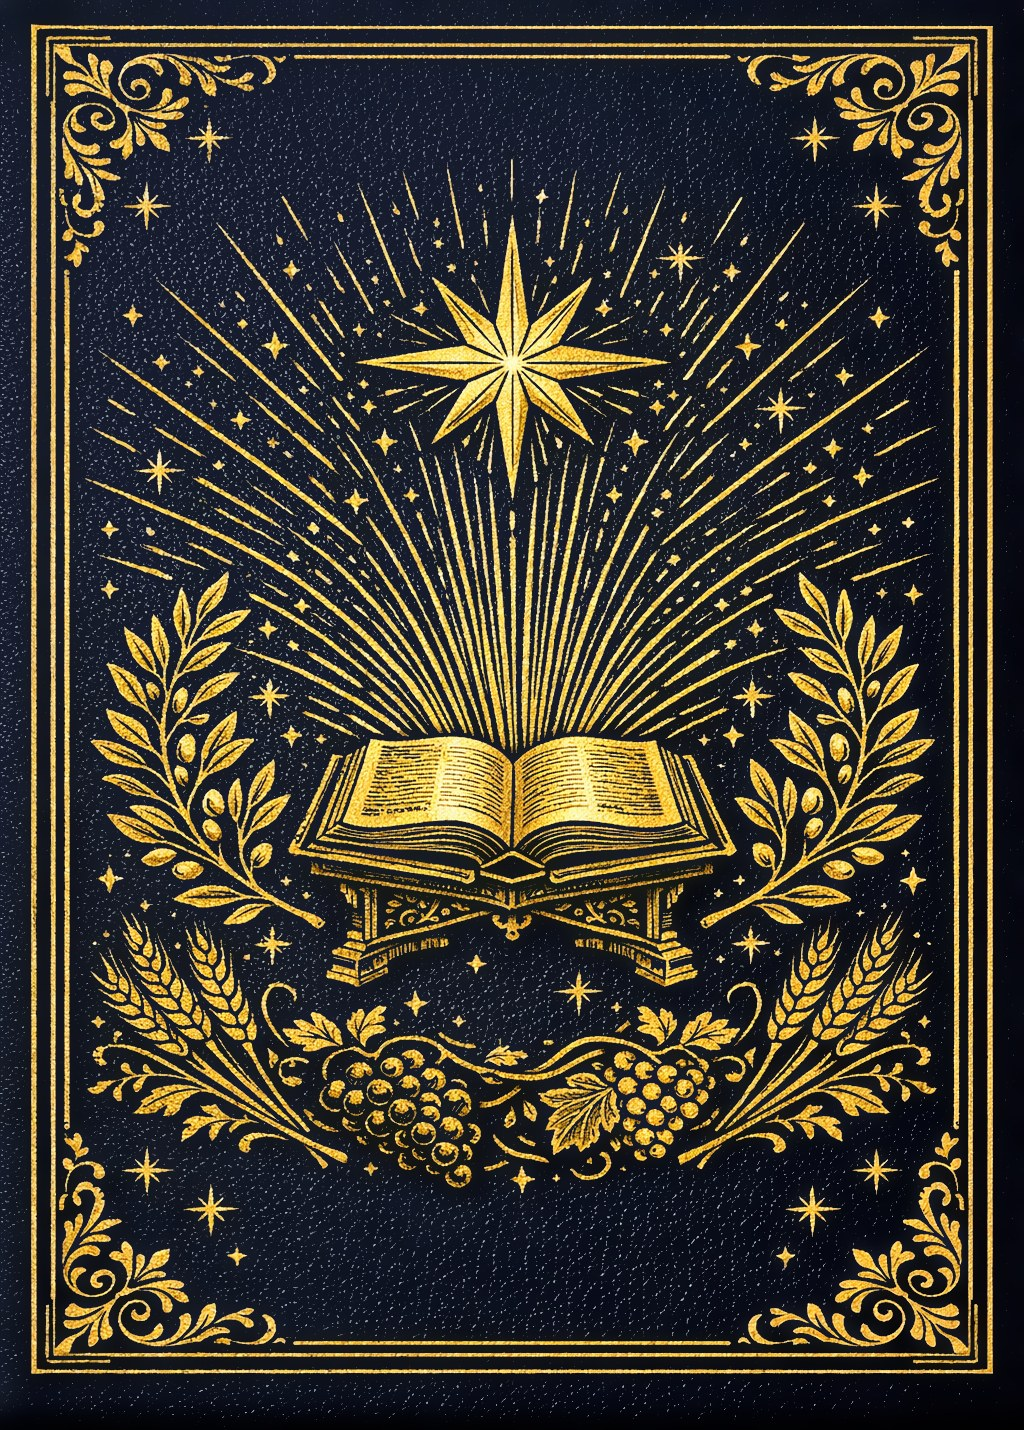
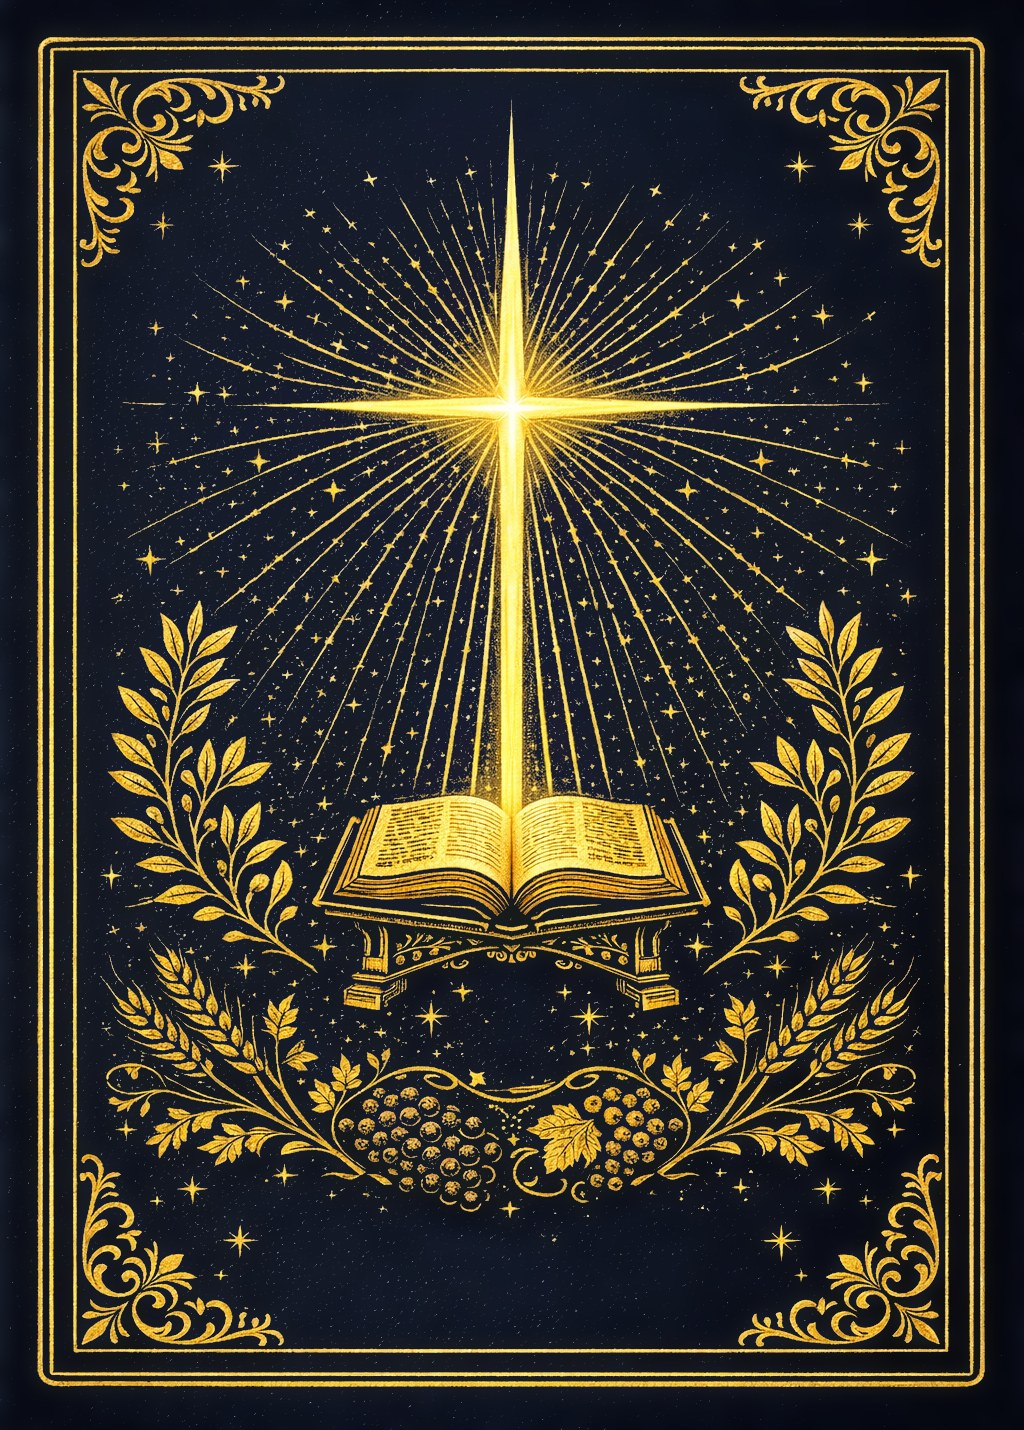
feat: card back with a cross-shaped star and a long beam to the Bible, even margins and softly rounded border corners; pnpm art can edit an existing picture

diff --git a/scripts/generate-art.art.ts b/scripts/generate-art.art.ts
@@ -175,6 +175,25 @@ async function generateWithLeonardo(prompt: string): Promise<Buffer> {
   throw new Error("Leonardo: timed out waiting for the picture");
 }
 
+/**
+ * Changes a picture you already have (OpenAI only): ART_EDIT=path/to/picture.png with ART_IDS=<new name> and the change
+ * to make in ART_EDIT_PROMPT. The result is written to art-drafts/<id>.png like any other draft.
+ */
+async function editWithOpenAI(imagePath: string, prompt: string): Promise<Buffer> {
+  const key = process.env.OPENAI_API_KEY;
+  if (!key) throw new Error("OPENAI_API_KEY is not set (put it in .env.local)");
+  const form = new FormData();
+  form.append("model", process.env.OPENAI_IMAGE_MODEL ?? "gpt-image-1.5");
+  form.append("prompt", prompt);
+  form.append("size", process.env.ART_SIZE ?? "1024x1536");
+  form.append("image", new Blob([readFileSync(imagePath)], { type: "image/png" }), "image.png");
+  const res = await fetch("https://api.openai.com/v1/images/edits", { method: "POST", headers: { Authorization: `Bearer ${key}` }, body: form });
+  if (!res.ok) throw new Error(`OpenAI ${res.status}: ${await res.text()}`);
+  const item = ((await res.json()) as { data: { b64_json?: string }[] }).data[0];
+  if (!item.b64_json) throw new Error("OpenAI returned no image");
+  return Buffer.from(item.b64_json, "base64");
+}
+
 async function generate(prompt: string): Promise<Buffer> {
   if (provider === "openai") {
     const key = process.env.OPENAI_API_KEY;
@@ -221,7 +240,7 @@ it("draws draft card art", async () => {
       lines.push(`  (skipped: ${out} exists)\n`);
       continue;
     }
-    writeFileSync(out, await generate(prompt));
+    writeFileSync(out, process.env.ART_EDIT ? await editWithOpenAI(process.env.ART_EDIT, process.env.ART_EDIT_PROMPT ?? prompt) : await generate(prompt));
     lines.push(`  -> ${out}\n`);
   }
   // Vitest swallows console output of passing tests: write the summary where it can be read.
